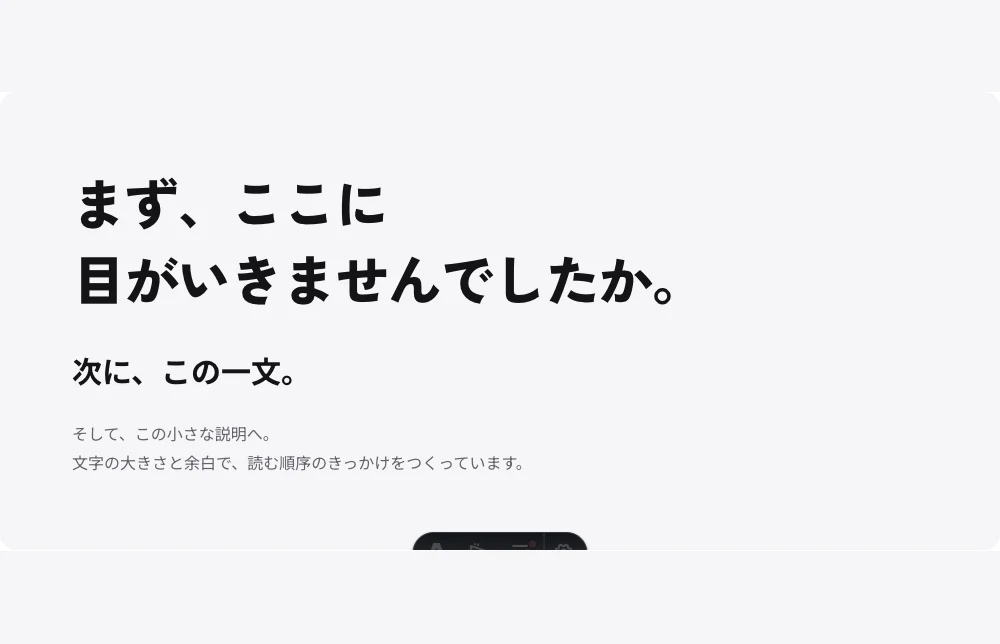
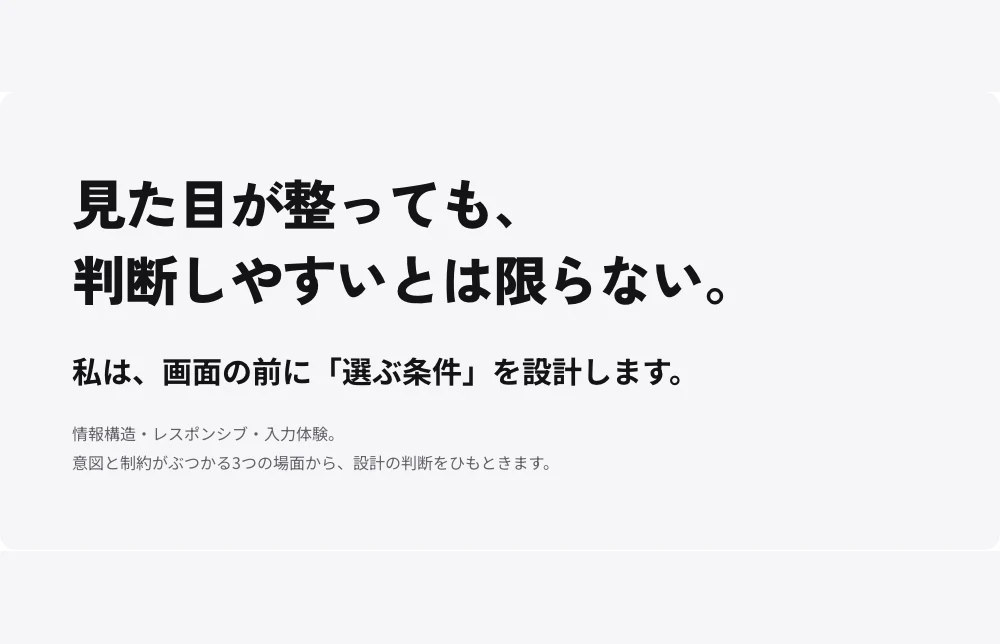
Deepen design article with implementation tradeoffs and validation

diff --git a/src/data/services.ts b/src/data/services.ts
@@ -1,4 +1,5 @@
 // 変更履歴: 2026-11-09 花屋の体験を作り手の考えを読むクイズ記事へ変更し、入口の紹介文を統一。
+// 変更履歴: 2026-11-09 初級の文字・余白問題から、設計・実装・検証を扱うケースへ内容を深化。
 // 変更履歴: 2026-11-08 サービス説明・サンプル・豆知識を4ページへ分け、対応範囲を判断しやすくするため追加。
 // 役割: サービスの名称と説明をトップ・詳細ページで共有する。
 // 変更履歴: 2026-11-08 画像付き横並び紹介に使う短い説明を追加。
@@ -9,9 +10,9 @@ export const servicePages = [
     forWhom: 'ホームページがない、古くて自分では更新できない、スマホで見にくい。', priceShort: '¥110,000（税込・5ページまで）', name: 'ウェブサイト制作', title: '伝わる順番から、\nサイトをつくる。',
     preview: '会社やお店の魅力が伝わるサイトを。構成・デザインから、スマホ対応・公開まで。',
     lead: '小さな会社やお店の「何をしているか」を、初めての人にも。ページの構成、デザイン、スマホ対応、公開までを整えます。',
-    description: '企業・店舗サイトの制作とリニューアル。文字・余白・ボタンのクイズを通じて、私がデザインするときに考えることを紹介します。',
+    description: '企業・店舗サイトの制作とリニューアル。情報構造・レスポンシブ・フォームの設計ケースを通じて、判断の理由、実装の注意点、検証方法を紹介します。',
     tasks: [['構成・原稿の整理', '誰に何を伝えるかを整理し、サービス・料金・問い合わせの順序を設計します。'], ['デザイン・実装', '事業に合う見た目と、スマホでも読みやすく操作できる画面をつくります。'], ['公開・引き継ぎ', 'タイトルや説明文を設定し、公開方法と更新手順をお渡しします。保守契約は任意です。']],
-    sampleTitle: '私が、デザインするときに考えていること。', sampleIntro: '伝わる順番、余白、ボタンの言葉。3つのクイズを通して、見た目の奥にある判断をお話しします。',
+    sampleTitle: '私が、デザインするときに考えていること。', sampleIntro: '情報の比較、スマホでの再構成、入力と受付。3つの設計ケースから、選択の理由と実装・検証の観点をお話しします。',
     tips: [['見た目の前に「次の一歩」を決める', '問い合わせ、予約、来店。訪問者にしてほしい行動を一つ決めると、必要な情報と順序を整理できます。ボタンだけを大きくするより、その手前で不安を解くことが大切です。'], ['SEOは、点数だけでは分からない', 'タイトル・見出し・説明文を分かりやすく整えることが基本です。ツールの高得点は検索順位の保証ではありません。お客様が知りたい情報が載っているかも、一緒に確認します。'], ['公開後も、自分で選べる状態に', 'ドメインやサーバーの契約者、更新できる場所、バックアップの保存先。納品時に確認しておくと、担当が替わっても困りにくくなります。']],
     source: 'https://developers.google.com/search/docs/fundamentals/seo-starter-guide?hl=ja', sourceLabel: 'Google 検索セントラル：SEOスターターガイド', price: 'ウェブサイト制作 ¥110,000（税込）', priceNote: '基本5ページ。掲載料金の対象・追加オプションはトップの料金表で確認できます。',
   },

diff --git a/src/styles/website-demo.css b/src/styles/website-demo.css
@@ -1,4 +1,5 @@
 /* 変更履歴: 2026-11-09 花屋の見本を、既存の白黒赤を継承する体験記事へ置換。 */
+/* 変更履歴: 2026-11-09 比較表・掲載順序・フォーム分岐の構成図に更新。不要になった初級見本の装飾を削除。 */
 /* 役割: 読む部分の幅を抑え、比較図だけを広くして、問いと判断理由を読み分ける。 */
 .service-demo--websites { padding: 0; background: transparent; border-radius: 0; }
 .service-sample:has(.website-demo) > .service-section-heading { grid-template-columns: 1fr; gap: 20px; max-width: 1000px; margin-inline: auto; }
@@ -25,17 +26,19 @@
 .design-option__example { position: relative; flex: 1; display: flex; align-items: center; padding: 64px 28px 32px; min-height: 300px; border-radius: 12px; background: var(--mist-light); }
 .design-option__letter { position: absolute; top: 18px; left: 24px; font-size: 18px; font-weight: 700; }
 .design-option__example p { margin: 0; font-size: 16px; }
-.type-comparison p + p { margin-top: 16px; }
-.design-option__example--b .type-comparison__main { font-size: clamp(24px, 3vw, 34px); line-height: 1.4; font-weight: 900; }
-.type-comparison__condition { color: var(--ink-muted); }
-.space-comparison { width: 100%; }
-.space-comparison__label { font-weight: 700; }
-.design-option__example--a .space-comparison p:nth-child(2n) { margin-top: 4px; }
-.design-option__example--a .space-comparison p:nth-child(3) { margin-top: 36px; }
-.design-option__example--b .space-comparison p + p { margin-top: 16px; }
-.action-comparison { width: 100%; }
-.action-comparison__button { display: inline-block; margin-top: 24px; padding: 12px 20px; background: var(--ink); color: var(--paper); border-radius: 8px; font-size: 16px; font-weight: 700; }
-.action-comparison small { display: block; margin-top: 12px; color: var(--ink-muted); font-size: 13px; }
+.decision-example { width: 100%; min-width: 0; }
+.decision-example .decision-example__title { font-weight: 700; font-size: 18px; margin-bottom: 20px; }
+.plan-sequence > div + div { margin-top: 24px; padding-top: 20px; border-top: 1px solid var(--input-border); }
+.plan-sequence strong { display: block; margin-bottom: 8px; }
+.decision-table { border-collapse: collapse; width: 100%; table-layout: fixed; font-size: 16px; font-variant-numeric: tabular-nums; }
+.decision-table caption { font-size: 13px; text-align: left; color: var(--ink-muted); margin-bottom: 12px; }
+.decision-table :is(th, td) { padding: 14px 6px; text-align: left; border-bottom: 1px solid var(--input-border); overflow-wrap: anywhere; }
+.decision-table thead th { border-bottom-color: var(--ink); }
+.decision-sequence { margin: 0; padding-left: 24px; }
+.decision-sequence li { padding: 12px 0 12px 6px; border-bottom: 1px solid var(--mist); line-height: 1.7; }
+.decision-example .decision-example__note { font-size: 13px; color: var(--ink-muted); margin-top: 20px; }
+.decision-fields > p { padding: 12px 0; border-bottom: 1px solid var(--input-border); }
+.decision-fields .decision-fields__branch { margin-left: 20px; }
 .design-option__choose { min-height: 48px; margin-top: 12px; padding: 12px 20px; border: 1px solid var(--input-border); border-radius: 8px; font: inherit; font-weight: 700; background: var(--paper); color: var(--ink); cursor: pointer; transition: background-color 160ms ease, color 160ms ease; }
 .design-option__choose:hover:not(:disabled):not([aria-pressed='true']) { background: var(--mist-light); }
 .design-option__choose[aria-pressed='true'] { background: var(--ink); border-color: var(--ink); color: var(--paper); }

diff --git a/AUDIT.md b/AUDIT.md
@@ -1,6 +1,18 @@
 # 完成後監査
 
-## 最新: 作り手の考えを伝えるクイズ記事 — 2026-11-09
+## 最新: 設計ケースの中級以上向け改訂 — 2026-11-09
+
+変更理由: 初級知識の説明に見えるという指摘を受け、両案に利点のある判断、実装条件、評価方法へ内容を深化。
+
+- 対象: ウェブ制作記事、入口のコピー、プレビュー画像、対応するCSS。既存の選択処理と他サービスは変更しない。
+- 1440/768/375/320pxで3問のA/B選択、解説3件の開閉対象、比較表の横はみ出しなしを確認。320pxで本文・表の文字32px、文字間.12em/単語間.16em/行高1.5の上書きでも文書・表に横はみ出しなし。
+- Enterで回答可能。tableはcaptionとscope付きの行・列見出し、順序図はolで表現。フォーム構成図は入力欄を装わず、送信機能なしと明記。
+- W3Cの表・意味の通る順序・入力検証、GOV.UKの条件付き質問と既知の読み上げ課題を確認し、記事へ実装・検証上の留意点を反映。成果の数値や実績は作らず、判断と仮説として記述。
+- Impeccable静的検出 `[]`。Web Interface Guidelinesを再取得して変更範囲を確認。既存書体・配色・操作を維持し、不要になった初級見本のCSSを削除。
+- Astro check 0 errors / warnings / hints、9ページのビルド成功。プレビュー画像1000×644、約23KBへ更新。
+- 実機のタッチ・VoiceOver・全ブラウザの適合・利用者の理解度は未検証。前回の18/20を新たな外部評価として流用しない。
+
+## 過去: 作り手の考えを伝えるクイズ記事 — 2026-11-09
 
 変更理由: 架空の店舗ではなく、Adobe風の問いと一人称の判断理由を組み合わせた記事にするユーザー指示を反映。
 

diff --git a/DESIGN.md b/DESIGN.md
@@ -53,7 +53,7 @@
 
 4つのサービス詳細は既存の白黒赤と書体を継承し、事業説明→体験→豆知識→相談の順で配置する。体験はウェブの視線誘導、ECの商品選択とカート、AIの問い合わせ整理例、架空メールの確認ポイント。各ページに3本の短い記事と更新日を掲載する。サンプルと実績は区別し、実際のAI生成・決済・送信は行わない。AMOUNTの実画面は公開可能範囲を確認後に別途扱う。
 
-2026-11-09現在、トップは3/2/1件の手動横送りを維持。ウェブ制作の体験は架空店舗を撤去し、文字自体の優先順位の見本と3問のクイズ付き記事へ変更する。Adobeの問いと解説、Learn UI Designの作り手の語り、ケーススタディの「目的→判断→制作で確認すること」を組み合わせる。採点ゲームにはしない。白黒赤・共通書体を継承し、比較図は1000px、文章は720px以内。スマホでは比較図を縦に配置する。回答を選ばなくても解説を読める。現行仕様は`docs/design/2026-11-09-design-essay.md`を参照。
+2026-11-09現在、トップは3/2/1件の手動横送りを維持。ウェブ制作の体験は架空店舗を撤去した3問のクイズ付き記事。初歩的な見た目の比較から、情報構造・レスポンシブ・入力と受付の設計判断へ深化する。Adobeの問いと解説、Learn UI Designの作り手の語り、ケーススタディの「目的→判断→実装→検証」を組み合わせる。採点ゲームにはしない。白黒赤・共通書体を継承し、比較図は1000px、文章は720px以内。スマホでは比較図を縦に配置する。回答を選ばなくても解説を読める。現行仕様は`docs/design/2026-11-09-design-essay.md`を参照。
 
 ## 過去案
 

diff --git a/docs/design/2026-11-09-design-essay.md b/docs/design/2026-11-09-design-essay.md
@@ -7,9 +7,9 @@
 ## 現行構成
 
 - Readを主目的とする。文字そのものが読む順番を伝える導入。
-- 3問（優先順位・近接と余白・行動文言）。目的を先に提示し、A/Bを比べる。
+- 3問（比較の情報構造・レスポンシブ時の情報順序・フォームの項目と受付）。中級以上の読者に、制約を踏まえた判断を伝える。どちらにも採用理由のある案を比較する。
 - 回答を押すと同じ問題の解説が開く。読み上げで選択を通知し、回答は変更可能。
-- 「この目的なら私は選ぶ」→判断理由→条件が違えばどう変わるか→実際の制作での確認。
+- 「この目的なら私は選ぶ」→判断理由→別案を選ぶ条件→実装で詰めること→どう検証するか。HTMLの表・読み順・状態設計・サーバー検証まで触れ、未実装の機能や未計測の成果を実績として語らない。
 - 正誤スコア、ランキング、計測、永続化、送信なし。ネイティブdetailsでJSなしでも読める。
 - 白#FFFFFF / 墨#141416 / 補助#62626A / 淡面#F5F5F7 / 赤#DF2033・濃赤#BB1829。既存書体。左揃え、比較1000px、本文720px。600px以下は比較図を縦に。
 
@@ -25,4 +25,5 @@
 
 ## 変更履歴
 
+- 2026-11-09: 「初心者向けで技術力が低く見えそう」という指摘に対応し、初歩的な文字・余白・ボタン文言の問題を3つの設計ケースへ差し替え。W3Cの表・意味のある順序・入力検証、GOV.UKの条件付き質問を現行資料で確認。公開フォームそのものの機能は変更しない。
 - 2026-11-09: 以前の花屋の設計記録を過去案とし、ユーザー指定の体験記事を現行仕様として記録。

diff --git a/CHANGELOG.md b/CHANGELOG.md
@@ -2,6 +2,8 @@
 
 ## 2026-11-09
 
+- `WebsiteDesignDemo.astro` / `website-demo.css`: 初級向けに見えるという指摘を受け、情報の比較・スマホでの再構成・フォームの条件分岐を題材に、制約・代替案・実装・検証を説明する中級以上向けの記事へ更新。設問を裏付ける一次資料を追記し、使わなくなった比較用CSSは削除。
+- 入口の紹介文・プレビュー画像・設計資料を現行記事に統一。クイズ操作、問い合わせフォーム自体、料金、他サービスの機能は維持。
 - `WebsiteDesignDemo.astro` / `website-demo.css` / `website-demo.ts`: ユーザーの指定により花屋を撤去。文字の優先順位を体験する導入、3問の比較、作り手の一人称による判断理由、実制作の確認点へ変更。選択なし・JavaScriptなしでも解説が読める構成とし、採点ゲームは採用しない。
 - `services.ts` / サービスページ / トップのプレビュー: 記事と入口の説明を揃えるため更新。`DESIGN.md` / `PRODUCT.md` / 設計記録に最新方針を記録。
 - 作業前にorigin/mainの最新11e5898へfast-forwardし、安全チェック・Cloudflare配信・新フッターを保持した。

diff --git a/public/images/services/PROVENANCE.md b/public/images/services/PROVENANCE.md
@@ -3,7 +3,7 @@
 変更履歴: 2026-11-08 画像付き横並びカラムに掲載するため、当プロジェクトの体験サンプル画面を撮影。
 変更履歴: 2026-11-09 ウェブ制作の新教材を撮影し、軽いWebPのプレビューへ更新。写真素材の出典を追記。
 
-- `websites.webp`: 2026-11-09のクイズ記事に合わせ、文字の優先順位を示す導入を撮影して1000×644のWebPへ更新。花屋の画像を入口に残さないため置換。
+- `websites.webp`: 2026-11-09の中級以上向け設計ケースへの改訂に合わせ、「見た目が整っても、判断しやすいとは限らない」の導入を撮影して1000×644のWebPへ更新。入口と本文の内容を統一。
 - `websites.png`: 以前の花屋サンプルの保管用画像。現在のトップからは参照しない。
 - `ec.png`: `/services/ec/` の架空の商品選択サンプル。
 - `ai-apps.png`: `/services/ai-apps/` の問い合わせ整理サンプル（事前に用意した出力を表示）。

diff --git a/PRODUCT.md b/PRODUCT.md
@@ -28,7 +28,7 @@ Astro + TypeScript。GitHub Pagesで静的公開し、必要な箇所だけ Java
 
 ## Capabilities and Constraints
 
-- ウェブ制作ページは「私がデザインするときに考えること」を伝える3問のクイズ付き記事。文字の優先順位・余白・ボタン文言を比較し、目的に応じた判断理由を読める。視線の計測、回答の保存・送信、採点は行わない
+- ウェブ制作ページは「私がデザインするときに考えること」を伝える3問のクイズ付き記事。中級以上向けに比較の情報構造・レスポンシブの読み順・入力と受付の設計を比較し、判断理由・別案が合う条件・実装と検証を読める。視線の計測、回答の保存・送信、採点は行わない
 - ホームページの保守・更新
 - ホームページのリニューアル
 - AIアプリ開発・AI活用の提案
